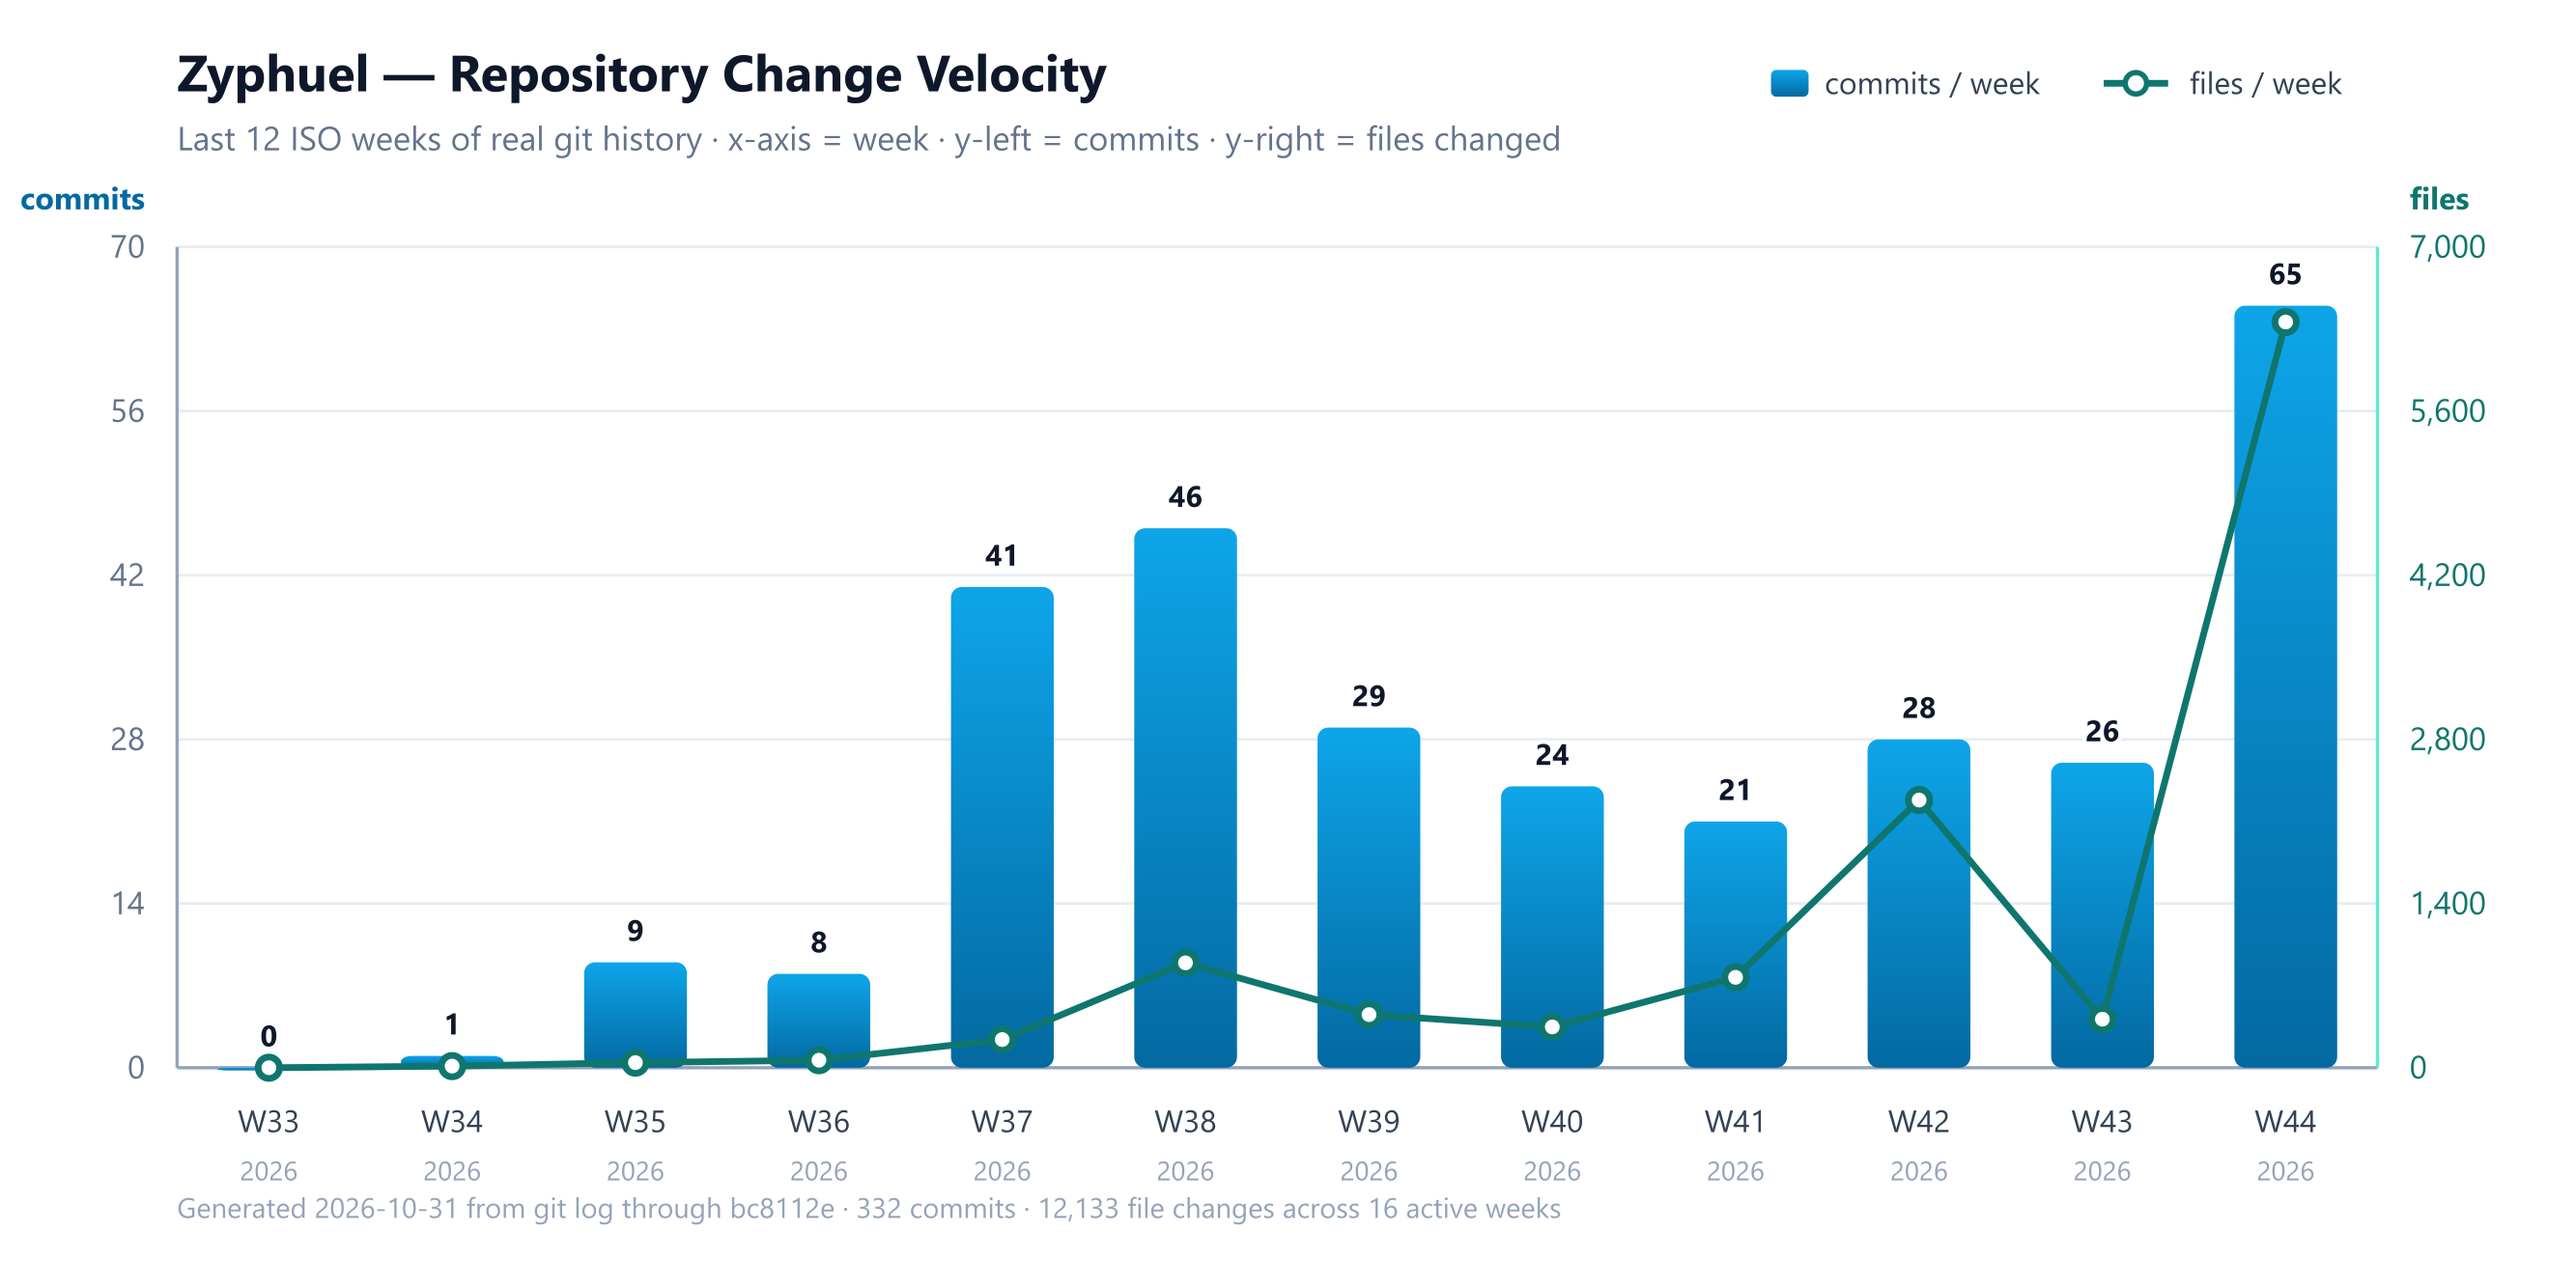
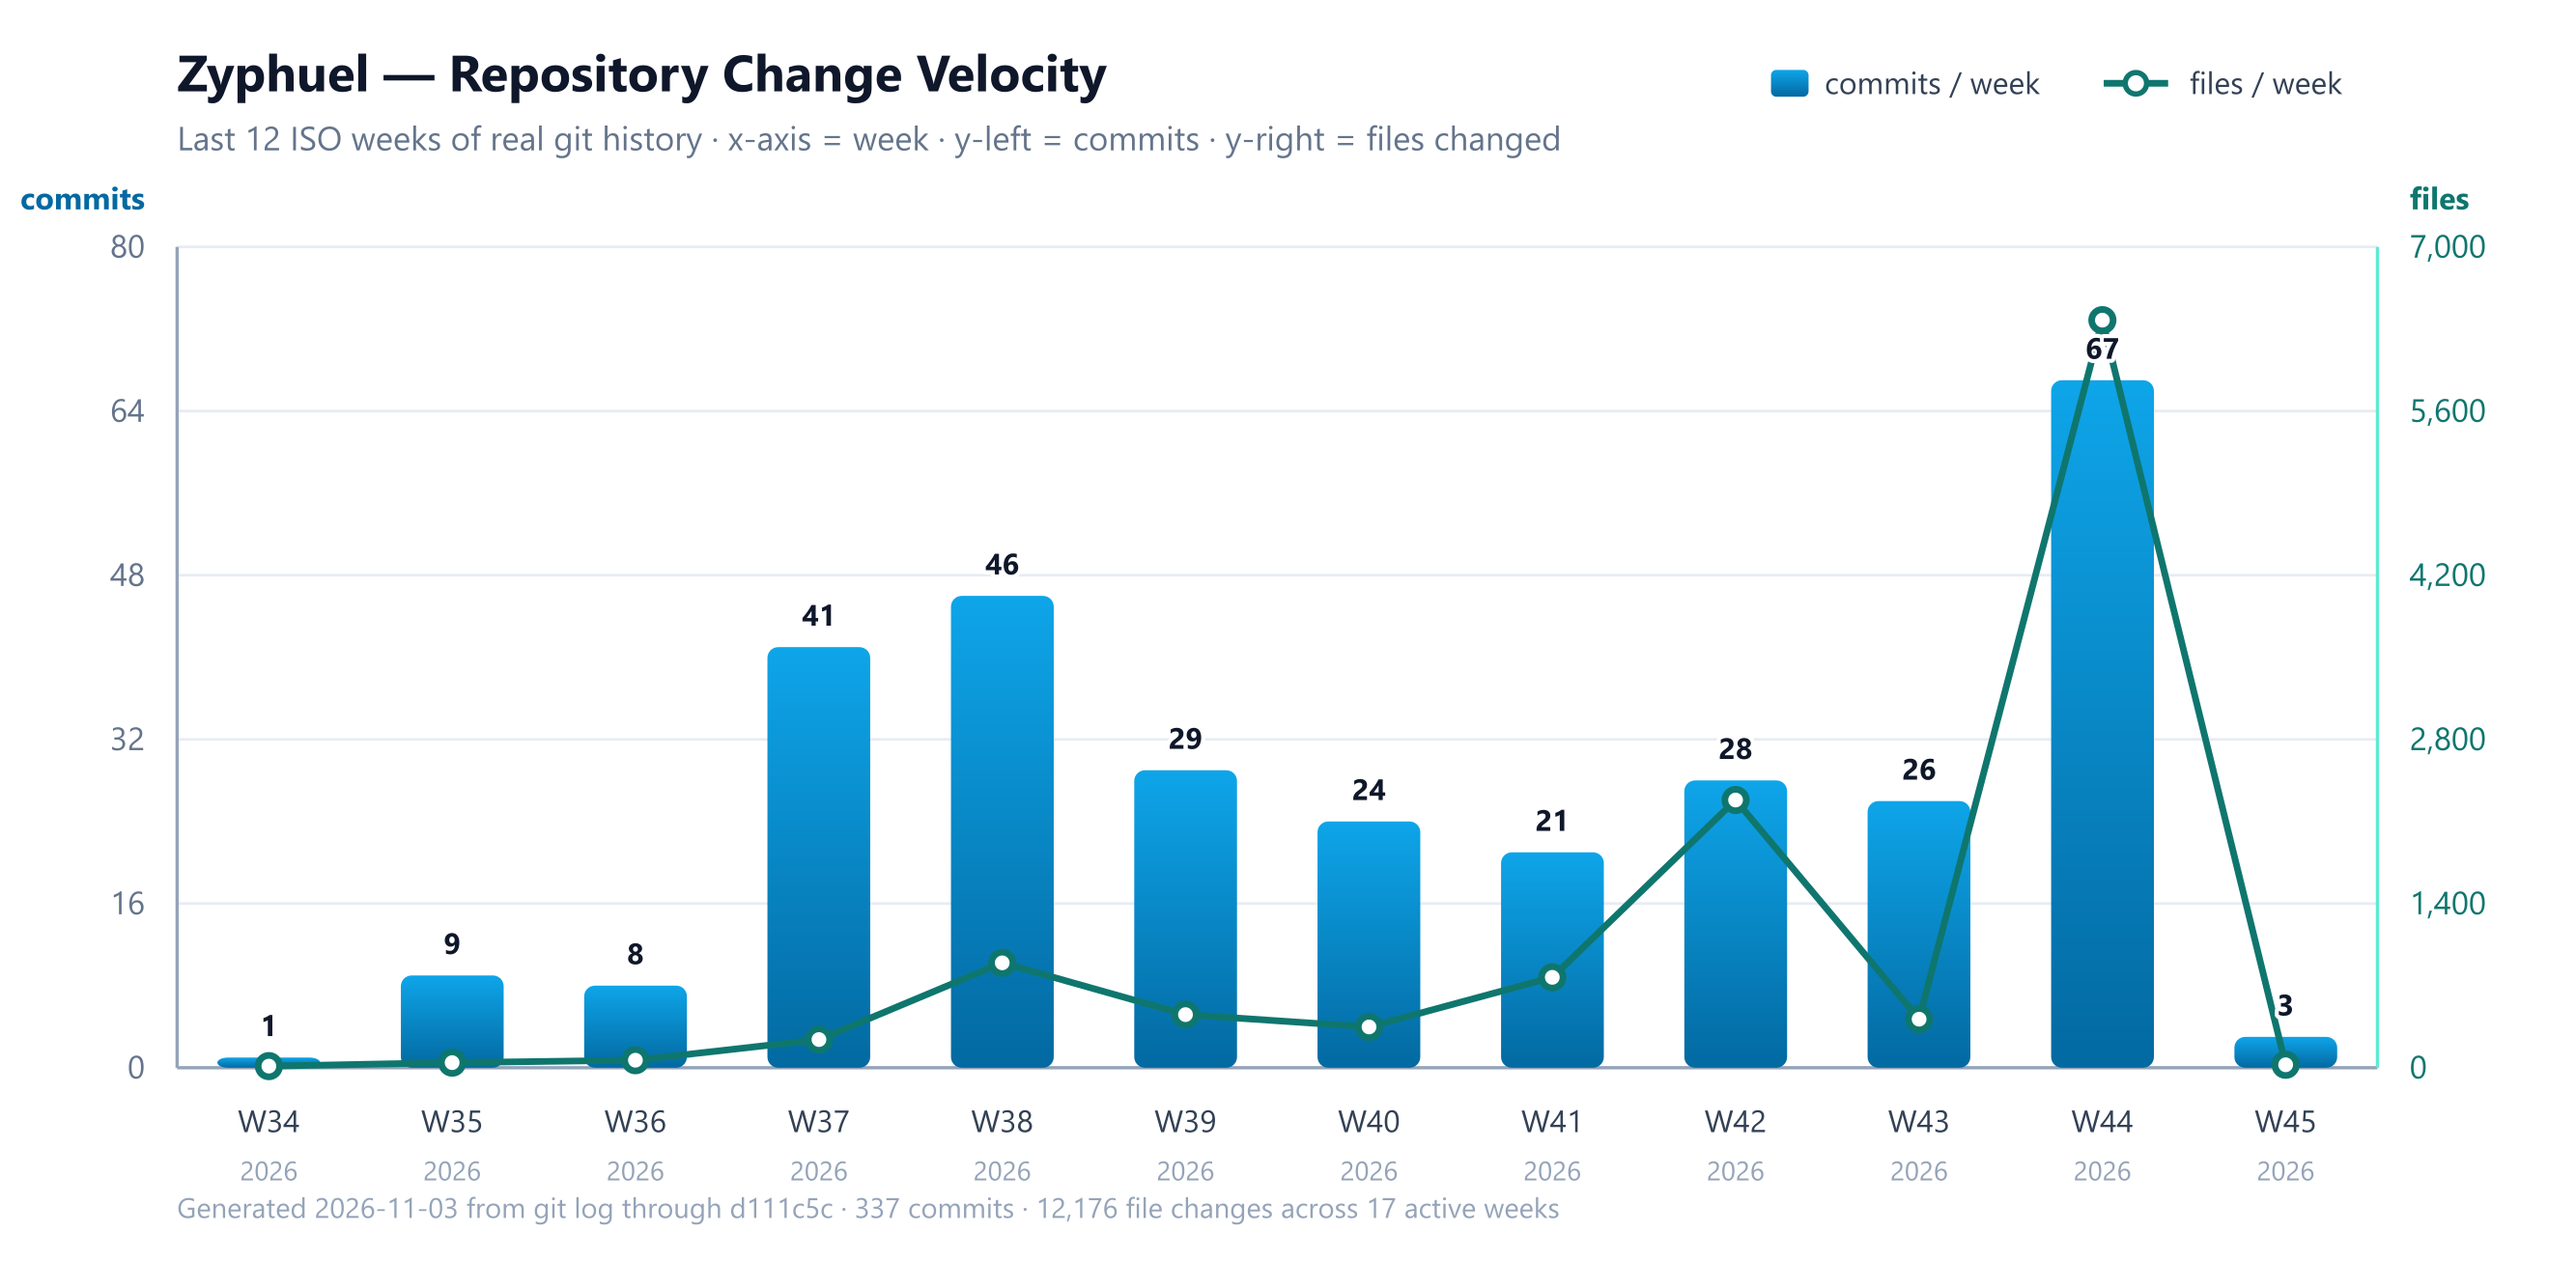
feat(seo): position Pinterest domain verification meta tag at head top & whitelist Pinterestbot

diff --git a/index.html b/index.html
@@ -6,8 +6,11 @@
   <meta name="viewport" content="width=device-width, initial-scale=1.0" />
 
   <!-- Global Search Engine Ownership & Webmaster Verifications -->
+  <meta name="p:domain_verify" content="fc80284bcf271f5d6deba0c07bafb11a"/>
   <meta name="google-site-verification" content="qJrxCPL2ax_70QB7Ziqh5XjSm-TwX25T9hOJuYGWUc8" />
   <meta name="google-site-verification" content="JzNOy0ir_miGagPjOHDG8yS-KvJgpazQRprKJRJmkJU" />
+  <meta name="msvalidate.01" content="41EAE944985226D1AAFA5E4D1FF56350" />
+  <meta name="yandex-verification" content="a8cf680ff524ad7b" />
   <meta name="google-adsense-account" content="ca-pub-5869892726772309" />
   <script>
     /* AdSense is loaded only after the page has painted and the main thread is idle.
@@ -52,9 +55,6 @@
       window.setTimeout(loadAds, 12000);
     })();
   </script>
-  <meta name="msvalidate.01" content="41EAE944985226D1AAFA5E4D1FF56350" />
-  <meta name="yandex-verification" content="a8cf680ff524ad7b" />
-  <meta name="p:domain_verify" content="fc80284bcf271f5d6deba0c07bafb11a" />
   <meta name="theme-color" content="#1a4f7c" />
   <link rel="icon" type="image/png" href="/images/logo.png" />
   <link rel="apple-touch-icon" href="/images/logo.png" />

diff --git a/docs/pages/home.md b/docs/pages/home.md
@@ -83,6 +83,7 @@
 
 ## Changelog
 | Date | Changes Made | Rationale / User Request |
+| **2026-11-03** | **Pinterest Domain Verification & Crawler Whitelisting**: Relocated `<meta name="p:domain_verify" content="fc80284bcf271f5d6deba0c07bafb11a"/>` to the very top of `<head>` in `index.html` (lines 9–14 with Google, Bing, and Yandex verifications) before any inline scripts. Whitelisted `Pinterestbot` and `Pinterest` (`Allow: /`) in `public/robots.txt`. | User requested Pinterest domain claiming verification tag added and pushed to GitHub. |
 | **2026-10-30 (2)** | **Hero scrub moved to a 100-frame sequence (every third source frame) with an ahead-biased lookahead.** `SOURCE_STRIDE = 3`, `FRAME_COUNT = 100`, `framePath(i)` resolves to `ezgif-frame-${i * 3 + 1}.webp`, and the scroll handler now guarantees frames `center - 4` … `center + 16` instead of a symmetric 300-frame window. The idle fill in `src/utils/framePreloader.js` is capped (150 frames desktop / 90 mobile / 24 metered) and chunks of two, because a full 300-frame preload froze image decode on the main thread. Measured on the local production build: Home hero **102 frame requests** (was 242 on mobile), canvas changed on **9 of 9** scroll positions, progress bar 0 → 98.2%, and a real wheel scroll that previously exceeded a 15 s timeout now completes immediately at 48.8% progress. | User reported again that the scroll animation “still does not work / does not load”, and that the live site is far slower than localhost. |
 | **2026-10-30** | **Live-site payload cut: hero frames converted to WebP (11.5 MB -> 7.5 MB) and the 39-card 3D carousel moved to 560 px WebP with visible-arc-only loading (18.7 MB of sources -> 1.0 MB delivered).** The preload in `index.html` and the `prerender.js` strip rule now point at `ezgif-frame-001.webp` / `image/webp`; the dev middleware in `vite.config.js` answers `.webp` with the right MIME type. Verified on the local production build: 67 frames / 1.6 MB / 0 failed requests for a 1,200 px scroll, canvas pixels change, progress bar 0% -> 95.2%, carousel loads 3 of 39 cards (63 KB) instead of megabytes. See [`2026-10-30 report`](../reports/2026-10-30-scroll-frames-speed-indexing-report.md). | Live site is slow while localhost is fast; the whole 300-frame JPEG sequence was being pulled on scroll. |
 | **2026-10-30** | **Schedule card disambiguated**: the Home card now separates **Online Doorstep Order Window (PKT)** (every day 8:00 AM – 10:00 PM) from **Customer Support Desk & Office Verification** (Mon–Thu 8:00 AM – 8:00 PM, Fri 8:00 AM – 1:00 PM, Sat–Sun 10:00 AM – 6:00 PM) and adds a note that Friday is a support-desk half-day while doorstep ordering continues to 10:00 PM. `openingHoursSpecification` is now daily 08:00–22:00 and the desk windows moved to `contactPoint.hoursAvailable`. | User found the two mixed schedules contradictory and suspicious. |

diff --git a/docs/changes.md b/docs/changes.md
@@ -1554,3 +1554,11 @@ Acted directly on the owner's two local Search Console exports (`Coverage-2026-1
 - **Kept**: AdSense on idle-after-load with a 12 s ceiling — the best measured timing of the three variants.
 - **Honest limit**: identical production code measured 1.44–7.14 s TBT across runs on this machine, so no sub-second improvement is claimed. Removing AdSense is the remaining lever and needs owner approval.
 - Report: `docs/reports/2026-10-31-download-tbt-profiling.md`.
+
+## Phase 20 (2026-11-03): Pinterest Domain Verification & Crawler Whitelisting
+
+- **Pinterest Domain Verification**: Moved `<meta name="p:domain_verify" content="fc80284bcf271f5d6deba0c07bafb11a"/>` to the very top of `<head>` in `index.html` (immediately below `<meta name="viewport">` alongside Google, Bing, and Yandex webmaster verifications), ensuring fast-scanning crawler parsers detect the ownership tag within the first 500 bytes of the HTML payload without being delayed or skipped by inline script parsing.
+- **Crawler Whitelist**: Explicitly added `Pinterestbot` and `Pinterest` with `Allow: /` in `public/robots.txt` under social media scraping & link previews.
+- **Repository Hygiene**: Excluded `.cloud-attachments/` and `.tmpseo/` profiling caches in `.gitignore`.
+- **Activity Graph**: Refreshed `docs/reports/charts/development-activity.svg` and `.png` via `node scripts/make-activity-graph.mjs`.
+
